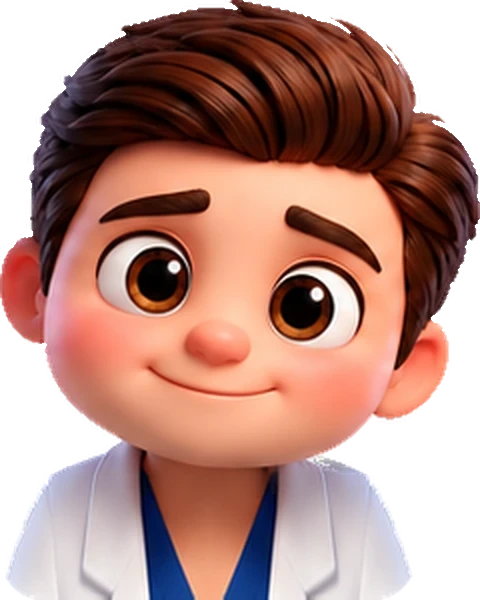
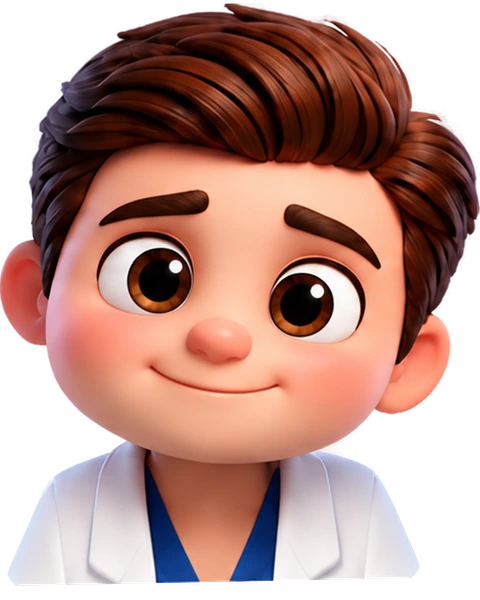
Dr. Smiley: sharp, professional cutout from the drawn calm face
His picture was a crop of the first character sheet, enlarged (blurry), with
a white rim left by the first cutout. He is now cut from Jose's drawn calm
face, about 1.8x the detail, with a closed-form matte: each edge pixel gets
its real transparency and its colour solved against the white background,
so no white is left at the hair, cheeks, ears or coat. Inside his outline he
stays fully solid. All 18 face frames are rebuilt on this picture in the
drawing's own space, and the frame strip is see-through except where frames
change, so his own edge shows wherever the window crosses his outline. The
cords' jaw mask follows his new jaw. Hats keep the same fit.

Build b1006.2137, cache v161.

Claude-Session: https://claude.ai/code/session_0125S7ePWNAmXdv3F3qCx3ib

diff --git a/index.html b/index.html
@@ -5374,7 +5374,7 @@ body.access-locked{ overflow:hidden; }
 /* The window his face shows through: its own size and clipping, whatever the
    rules for the svg around it say (.ask-face svg is 100% wide and shows
    overflow, which would stretch the strip and show every frame at once). */
-svg.ds-art svg.ds-face{ width:75.525px !important; height:61.392px !important; overflow:hidden !important; filter:none !important; transform:none !important; animation:none !important; }
+svg.ds-art svg.ds-face{ width:66.692px !important; height:49.025px !important; overflow:hidden !important; filter:none !important; transform:none !important; animation:none !important; }
 .ask-face.is-thinking svg{ animation:askThink 1.1s ease-in-out infinite; transform-origin:50% 90%; }
 @keyframes askThink{ 0%,100%{ transform:rotate(0); } 30%{ transform:rotate(-6deg); } 70%{ transform:rotate(5deg); } }
 img.tool-logo{ width:100%; height:100%; object-fit:contain; display:block; }
@@ -12711,7 +12711,7 @@ function externalUrl(raw){
 }
 
 /* Dr. Smiley: the cartoon doctor from Jose's character sheet, head and
-   shoulders. Every Dr. Smiley in the app -- the greeting, the dock, Ask the
+   shoulders, cut out from Jose's drawn calm face. Every Dr. Smiley in the app -- the greeting, the dock, Ask the
    Hub, the lock screen, the top bar -- is drSmileyArt() in the old smiley's
    box (viewBox 4 4 112 112), so the sizes and places around him didn't
    change. He hangs below the box like the old coat did, so each copy keeps
@@ -12731,13 +12731,15 @@ function externalUrl(raw){
    lifting), smile; laugh1/laugh2 (eyes squeezing, mouth widening),
    laugh/laughB (the laugh mouth open and a little less open, for "ha-ha");
    lookL/lookR (eyes to the viewer's left/right); love (heart eyes); sleep.
-   In picture pixels (240 x 300 base) the window is x 30, y 94, 171 x 139. */
+   In picture units (240 x 300 base) the window is x 40, y 106, 151 x 111; the
+   strip is see-through except where frames change, so the picture's own
+   edge shows wherever the window crosses his outline. */
 const DR_FACE_FRAMES = ['rest', 'blink1', 'blink2', 'shut', 'wink1', 'wink2', 'wink', 'smile1', 'smile2', 'smile', 'laugh1', 'laugh2', 'laugh', 'laughB', 'lookL', 'lookR', 'love', 'sleep'];
-const DR_FACE_W = 171, DR_FACE_H = 139;
+const DR_FACE_W = 151, DR_FACE_H = 111;
 function drSmileyArt(cls){
   return `<svg class="ds-art${cls ? ' ' + cls : ''}" viewBox="4 4 112 112" aria-hidden="true" focusable="false">`
     + '<image class="ds-base" href="./drsmiley/base.webp" x="14" y=".8" width="106" height="132.5" preserveAspectRatio="none"/>'
-    + `<svg class="ds-face" x="27.25" y="42.317" width="75.525" height="61.392" viewBox="0 0 ${DR_FACE_W} ${DR_FACE_H}" preserveAspectRatio="none">`
+    + `<svg class="ds-face" x="31.667" y="47.617" width="66.692" height="49.025" viewBox="0 0 ${DR_FACE_W} ${DR_FACE_H}" preserveAspectRatio="none">`
     +   `<image class="ds-sheet" href="./drsmiley/face.webp" x="0" y="0" width="${DR_FACE_W * DR_FACE_FRAMES.length}" height="${DR_FACE_H}" preserveAspectRatio="none"/></svg>`
     + '</svg>';
 }
@@ -17873,7 +17875,7 @@ const MOTIVATIONAL_QUOTES = [
 // Build stamp. Shown in the More sheet and logged to the console so it's
 // possible to tell, from the phone, exactly which deploy is running — cache
 // problems and "did that upload actually land?" are otherwise guesswork.
-const BUILD_ID = 'b1006.2126';
+const BUILD_ID = 'b1006.2137';
 const BUILD_TIME = '2026-10-06 12:22 UTC';
 console.log('Interpreter Hub build', BUILD_ID, BUILD_TIME);
 /* Installed on an iPhone, the app is sometimes handed a viewport shorter than

diff --git a/home-polish.js b/home-polish.js
@@ -738,7 +738,7 @@
     const art=pin.querySelector('.home-face');
     if(art)art.insertAdjacentHTML('beforeend','<defs><mask id="dsNeckMask" maskUnits="userSpaceOnUse" x="-20" y="-40" width="160" height="200">'
       +'<rect x="-20" y="-40" width="160" height="200" fill="#fff"/>'
-      +'<path fill="#000" d="M-20 -40 H140 V86.9 L120 86.9 L92.6 95.3 L86.9 99.7 L81.1 102.4 L76.7 103.7 L71.4 104.6 L64.8 104.6 L58.2 104.1 L52.9 103.3 L48.5 101.9 L46.2 100.6 L43.1 98.4 L37 94.4 L14 88.2 L-20 88.2 Z"/></mask></defs>'
+      +'<path fill="#000" d="M-20 -40 H140 V88.7 L107.6 88.7 L106.5 89.6 L97.0 90.5 L95.9 91.3 L95.3 92.2 L94.6 93.1 L93.7 94.0 L92.8 94.9 L91.7 95.8 L90.6 96.6 L89.3 97.5 L87.8 98.4 L85.8 99.3 L83.6 100.2 L80.9 101.1 L77.8 101.9 L69.7 102.8 L59.5 103.5 L54.2 102.6 L50.4 101.7 L47.3 100.8 L45.1 100.0 L43.1 99.1 L41.4 98.2 L39.6 97.3 L38.1 96.4 L36.5 95.5 L35.2 94.7 L33.9 93.8 L32.8 92.9 L31.7 92.0 L30.8 91.1 L29.9 90.2 L29.2 89.4 L-20 88.7 Z"/></mask></defs>'
       +'<g class="hub-lanyard" mask="url(#dsNeckMask)">'
       +'<path fill="none" stroke="#151B48" stroke-width="5.6" stroke-linecap="round" stroke-linejoin="round"/>'
       +'<path fill="none" stroke="#2C3E9E" stroke-width="3.4" stroke-linecap="round" stroke-linejoin="round"/>'

diff --git a/sw.js b/sw.js
@@ -26,7 +26,7 @@
  * the scenario this cache exists for in the first place).
  */
 
-const CACHE_VERSION = 'interpreter-hub-v160-smiley-clean-cutout';
+const CACHE_VERSION = 'interpreter-hub-v161-smiley-sharp-cutout';
 const PRECACHE = [
   './',
   './index.html',
